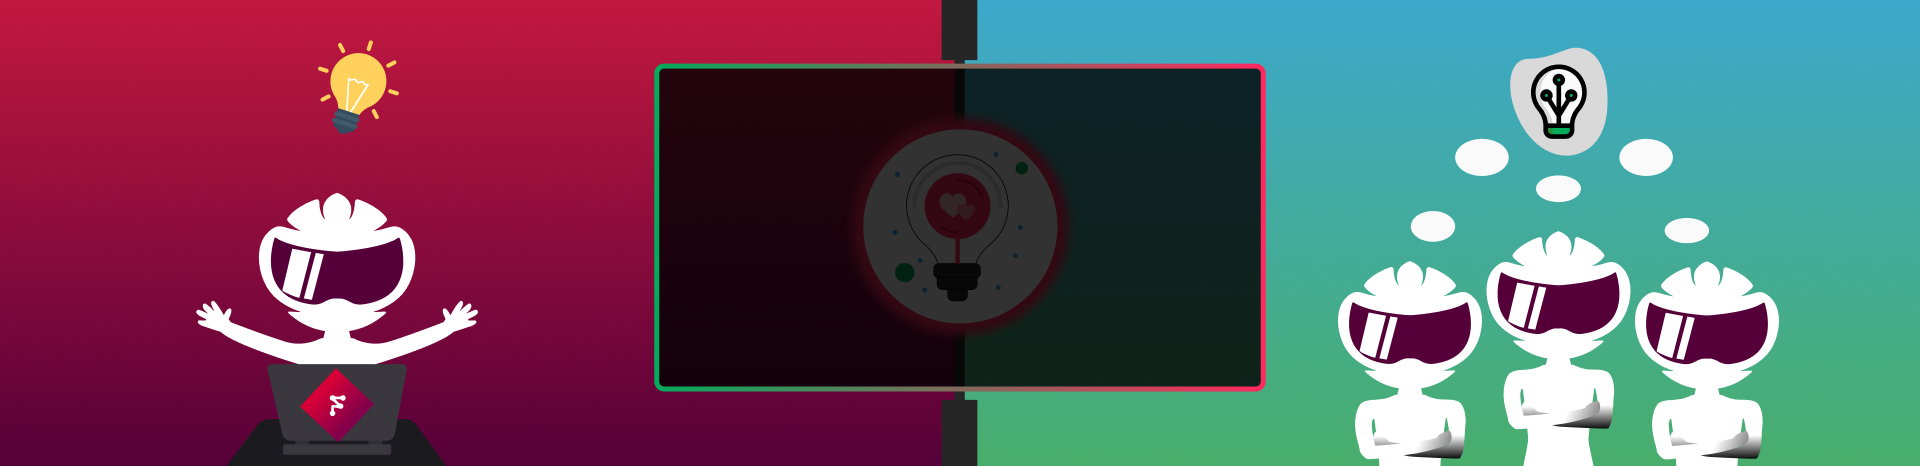
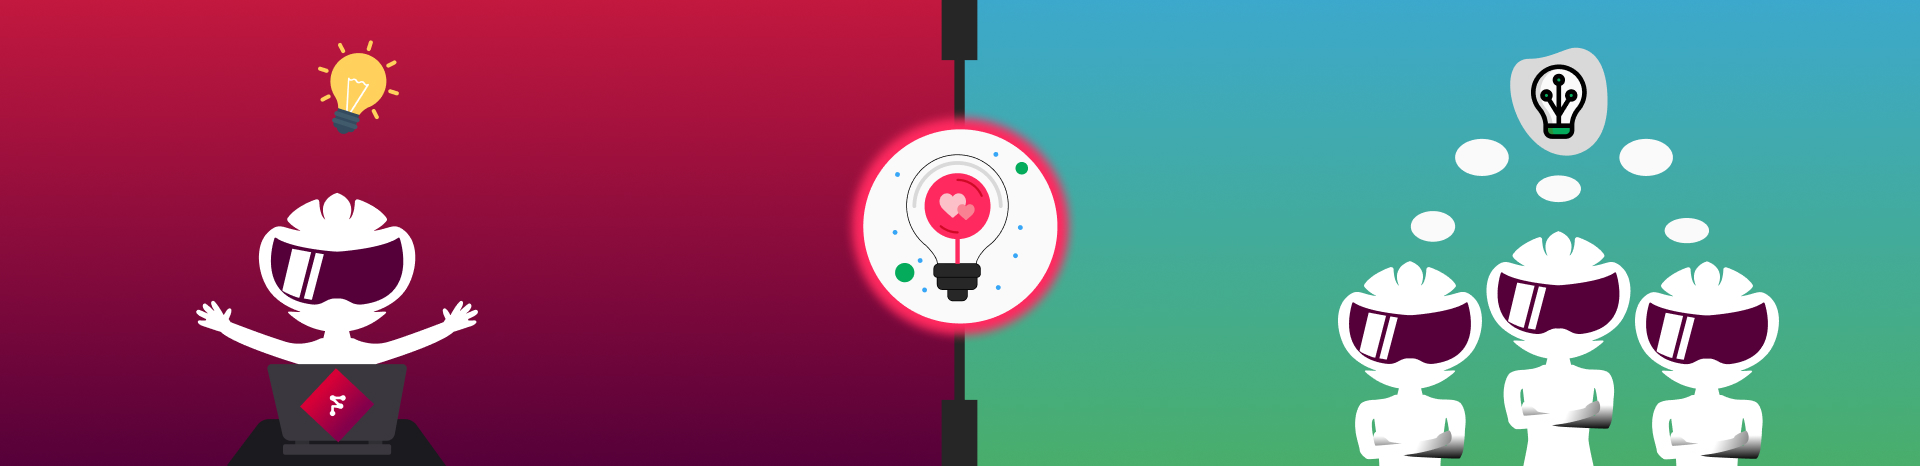
Media query added to section one

Changed region(s): [[0.3438, 0.1202, 0.6562, 0.8412]]

diff --git a/style.css b/style.css
@@ -26,6 +26,15 @@ body {
   z-index: 1000;
 }
 
+@media screen and (max-width: 414px) {
+  #nav-bar {
+    justify-content: center;
+    align-items: center;
+    flex-direction: column;
+    height: 150px;
+  }
+}
+
 #header-img {
   cursor: pointer;
 }
@@ -34,6 +43,13 @@ ul {
   display: flex;
   list-style: none;
   margin-right: 128px;
+}
+
+@media screen and (max-width: 414px) {
+  ul {
+    padding: 0;
+    margin-right: 16px;
+  }
 }
 
 a {
@@ -48,24 +64,26 @@ a {
   color: rgb(14, 14, 14);
 }
 
+@media screen and (max-width: 414px) {
+  .nav-link {
+    font-size: 14px;
+  }
+}
+
 .banner-match {
   display: flex;
-  position: relative;
+  position: absolute;
   top: 110px;
   background-repeat: no-repeat;
   background-size: cover;
   width: 100%;
+  z-index: -1;
 }
 
-#form {
-  display: flex;
-  flex-direction: column;
-  justify-content: center;
-  align-items: center;
-  top: 250px;
-  width: 100%;
-  position: absolute;
-  z-index: 1;
+@media screen and (max-width: 414px) {
+  .banner-match {
+    top: 150px;
+  }
 }
 
 .submit-title {
@@ -74,6 +92,16 @@ a {
   font-size: 24px;
   color: #fafafa;
   margin-bottom: 24px;
+}
+
+@media screen and (max-width: 414px) {
+  .submit-title {
+    text-align: center;
+    font-size: 16px;
+    margin-left: 16px;
+    margin-right: 16px;
+    width: 343px;
+  }
 }
 
 #email {
@@ -87,6 +115,13 @@ a {
   padding: 0 16px;
   margin-bottom: 24px;
   border: 3px solid #4468e7;
+}
+
+@media screen and (max-width: 414px) {
+  #email {
+    width: 311px;
+    font-size: 14px;
+  }
 }
 
 #email:hover {
@@ -131,6 +166,12 @@ a {
   align-items: center;
 }
 
+@media screen and (max-width: 414px) {
+  .title-icon {
+    margin-left: 16px;
+  }
+}
+
 .title-community {
   font-family: "Fredoka One", cursive;
   font-weight: 400;
@@ -138,8 +179,21 @@ a {
   margin-left: 16px;
 }
 
+@media screen and (max-width: 414px) {
+  .title-community {
+    font-size: 24px;
+    margin-left: 8px;
+  }
+}
+
 #video {
   margin-top: 160px;
+}
+
+@media screen and (max-width: 414px) {
+  #video {
+    height: 300px;
+  }
 }
 
 .main-content {
@@ -489,4 +543,17 @@ a {
   height: 100%;
   flex-direction: column;
   justify-content: space-between;
+}
+
+.form-suscription {
+  display: flex;
+  width: 100%;
+  height: 500px;
+  background: rgba(0, 0, 0, 0.7);
+  top: 74px;
+  flex-direction: column;
+  justify-content: center;
+  align-items: center;
+  width: 100%;
+  position: relative;
 }

diff --git a/index.html b/index.html
@@ -28,7 +28,7 @@
                 <li><a href="#contactanos" class="nav-link">Contactanos</a></li>
             </ul>
         </nav>
-        <form action="" id="form" action="https://www.freecodecamp.com/email-submit">
+        <form class="form-suscription" action="" id="form" action="https://www.freecodecamp.com/email-submit">
             <h2 class="submit-title">Inscribe tu correo para recibir todas la novedades</h2>
             <input type="email" id="email" placeholder="Ingrese su correo" required>
             <input type="submit" value="Enviar" id="submit">
